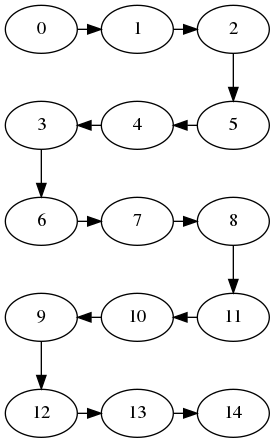
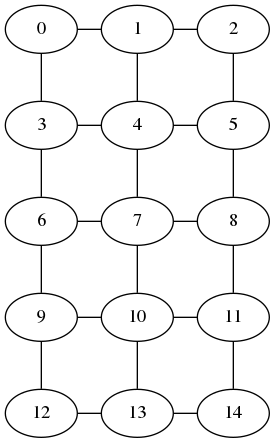
ADD visualization

diff --git a/scripts/data_generator.py b/scripts/data_generator.py
@@ -1,12 +1,16 @@
 #!/usr/bin/python3
 
 import argparse
+import numpy as np
 import sys
 
-def print_warning(message):
-    print("WARR: %s"%message)
+def print_warning (message):
+    print("WARNING: %s"%message)
 
-def generate_spiral(w,h):
+def print_error (message):
+    print("ERROR: %s"%message)
+
+def generate_spiral(w, h):
     n, graph = w*h, [[] for x in range(w*h)]
     for i in range(h):
         if i%2 == 0:
@@ -17,16 +21,44 @@ def generate_spiral(w,h):
             operation = -1
         for j in order:
             u = i*w + j
-            v = j + operation
-            if v >= 0 and v < w:
-                graph[u].append(str(v + i*w))
+            j_aux = j + operation
+            if j_aux >= 0 and j_aux < w:
+                graph[u].append(str(j_aux + i*w))
+                graph[j_aux + i*w].append(str(u))
             elif i+1 < h:
                 graph[u].append(str((i+1)*w + j))
+                graph[(i+1)*w + j].append(str(u))
     return n, graph
 
-def generate_mesh(w,h):
-    n, graph = 0, []
+def generate_mesh(w, h):
+    n, graph = w*h, [[] for x in range(w*h)]
+    for i in range(h):
+        for j in range(w):
+            u = i*w + j
+            if j + 1 < w:
+                graph[u].append(str(i*w + j+1))
+                graph[i*w + j+1].append(str(u))
+            if i + 1 < h:     
+                graph[u].append(str((i+1)*w + j))
+                graph[(i+1)*w + j].append(str(u))
     return n, graph
+
+def generate_random(w, h, n):
+    if not n:
+        n = w*h
+    matrix = np.zeros((n,n))
+    p = 0.5
+    for i in range(n):
+        for j in range(n):
+            matrix[i][j] = np.random.choice([0,1], 1, p=[1-p, p])
+    positions = np.random.choice(range(w*h),n)
+    var = 0
+    for i in range(h):
+        for j in range(w):
+            if i*w + j in positions:
+                graph[1]
+    return graph
+
 
 if __name__ == "__main__":
     parser = argparse.ArgumentParser()
@@ -36,16 +68,19 @@ if __name__ == "__main__":
     parser.add_argument("-t", "--type", choices=["spiral","mesh","random","geometric"], help="Type of the graph")
     #parser.add_argument("-f","--file", help="")
     args = parser.parse_args()
-    n, w, h, t = args.ncells, args.width, args.height, args.type
+    n, w, h, t = int(args.ncells), int(args.width), int(args.height), args.type
     graph = []
     if t == "spiral":
         if n: print_warning("Parameter NCELLS is not going to be used.")
-        n, graph = generate_spiral(w,h)
+        n, graph = generate_spiral(w, h)
     elif t == "mesh":
         if n: print_warning("Parameter NCELLS is not going to be used.")
-        n, graph = generate_mesh(w,h)
+        n, graph = generate_mesh(w, h)
     elif t == "random":
-        n = 0
+        if n <= w*h:
+            graph = generate_random(w, h, n)
+        else:
+            print_error("Not enough space for all the nodes (width*heigt < NCELLS).")
         print("random")
     elif t == "TODO: geometric":
         n = 0

diff --git a/src/circuit.cc b/src/circuit.cc
@@ -15,16 +15,20 @@ Circuit::Circuit (istream &input) {
 }
 
 void Circuit::print(ostream &output) {
-    // for (int i = 0; i < n; ++i) {
-    //     for (int j = 0; j < adjacency[i].size(); ++j) {
-    //         output << adjacency[i][j] << " ";
-    //     }
-    //     output << endl;
-    // }
+    for (int i = 0; i < n; ++i) {
+        for (int j = 0; j < adjacency[i].size(); ++j) {
+            output << adjacency[i][j] << " ";
+        }
+        output << endl;
+    }
+}
+
+void Circuit::graphviz(ostream &output) {
     output << "graph G {" << endl << "\tnode[pin=true];" << endl;
     for (int i = 0; i < n; ++i) {
         for (int j = 0; j < adjacency[i].size(); ++j) {
-            output << "\t" << i << " -> " << adjacency[i][j] << ";" << endl;
+            if (i <= adjacency[i][j])
+                output << "\t" << i << " -- " << adjacency[i][j] << ";" << endl;
         }
     }
 

diff --git a/src/circuit.h b/src/circuit.h
@@ -12,6 +12,7 @@ class Circuit {
               adjacency(n_nodes, Vector (n_nodes)) {}
         Circuit (istream &input);
         void print(ostream &output);
+        void graphviz(ostream &output);
     private:
         uint n, w, h;
         Matrix adjacency;
